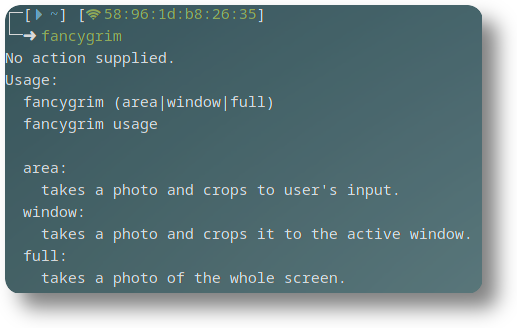
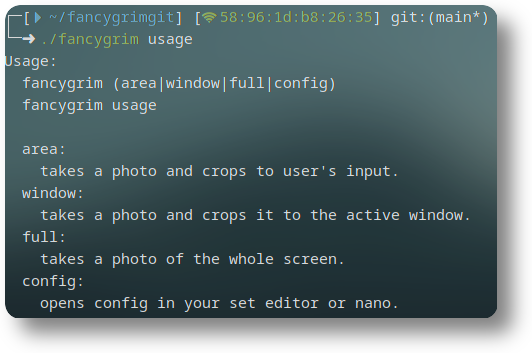
added more config settings & config option & replaced image

diff --git a/README.md b/README.md
@@ -1,13 +1,33 @@
 # fancygrim
 a small bash script that I use for screenshotting. (hyprland only)  
+i made this because I was infuriated with the lack of good screenshotting tools. This tool takes a screenshot and THEN resizes it, instead of taking a resizing and taking a screenshot of slurp. It also allows you to toggle a shadow and change the border radius for each individual mode.
 
 <img src="example.png">
   
 ## features:
 - area, window & full screenshots
 - shadows & corner rounding
+    - shadows can be toggled
+    - border radius can be configured.
 - full config
+    - configure with `sudo nano /usr/bin/fancygrim`
+    - configuration is within the script.
+    - might be moved soon, if i feel like it
 - notification w/ preview
+
+## config defaults
+```bash
+AREA_SHADOW=true # toggle shadow for "area" screenshots
+AREA_CORNER_INTENSITY=15 # border radius for "area" screenshots, 0 for disable
+WINDOW_SHADOW=true # toggle shadow for "window" screenshots
+WINDOW_CORNER_INTENSITY=15 # border radius for "window" screenshots, 0 for disable
+FULL_SHADOW=false # toggle shadow for "full" screenshots
+FULL_CORNER_INTENSITY=0 # border radius for "full" screenshots, 0 for disable
+SEND_NOTIF=true # toggle notification, useful for people without a notification daemon.
+NOTIF_IMAGE=true # toggle image in notification
+COPY_TO_CLIPBOARD=true # toggle whether /tmp/fancygrimss.png should be saved to the clipboard.
+PASTE_ONCE=false # toggle whether paste once or not
+```
 
 ## dependencies:
 - grim
